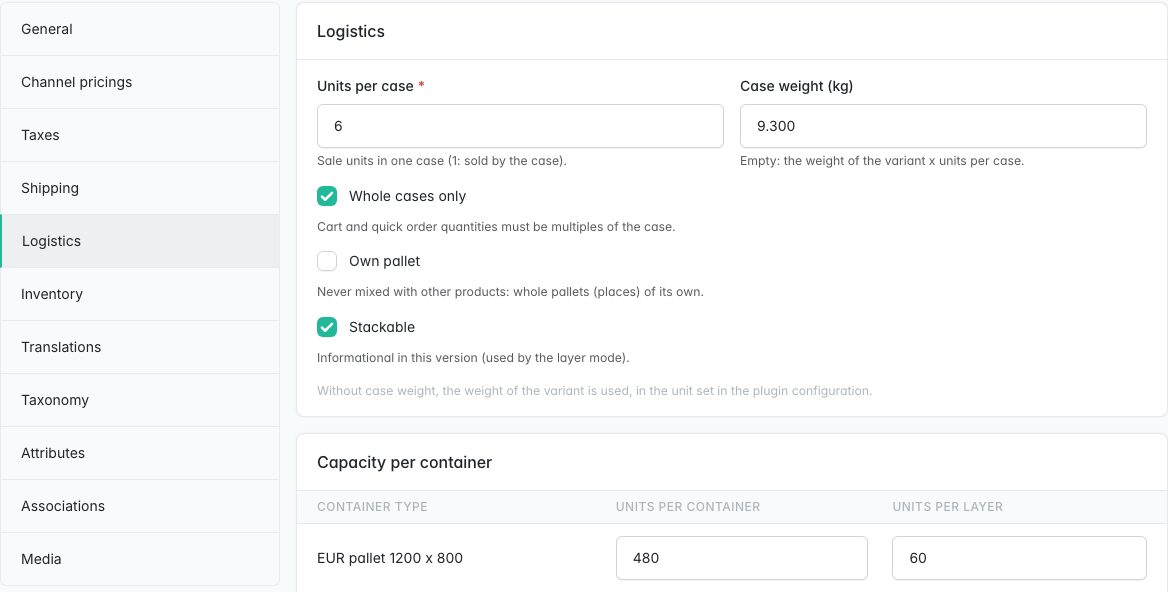
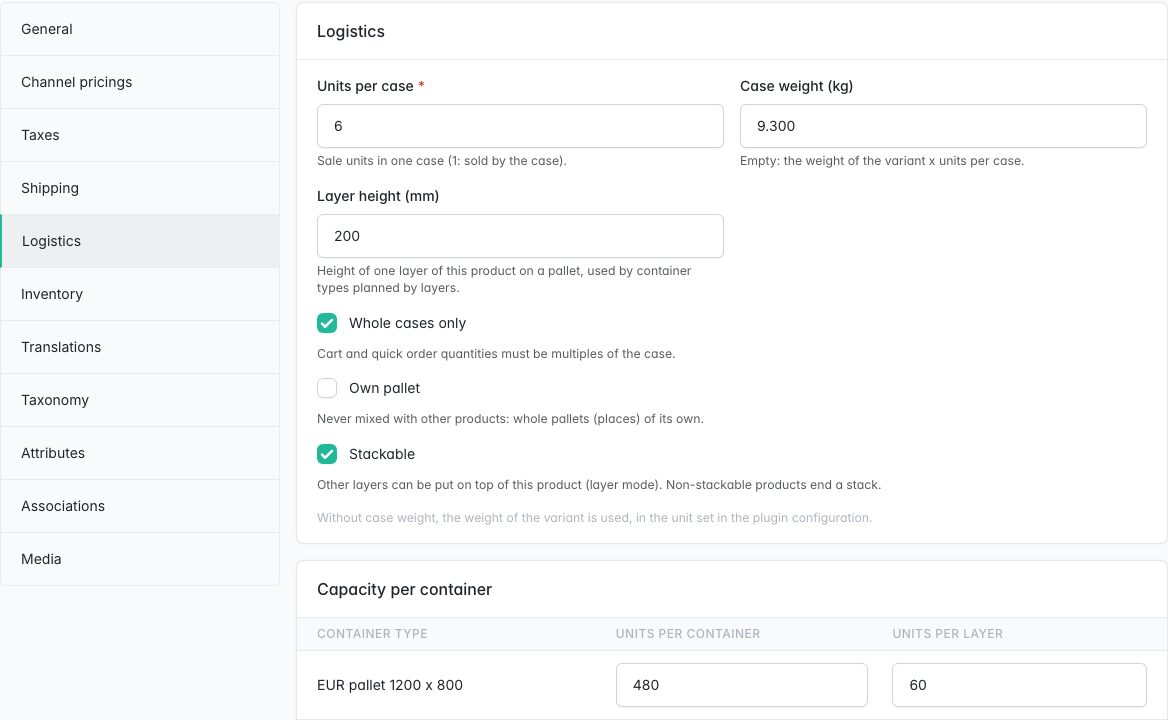
README: screenshots
Claude-Session: https://claude.ai/code/session_01L6YqF34Vf6VRuPDZbmX44T

diff --git a/README.md b/README.md
@@ -257,13 +257,15 @@ The gauge is the Live component `tmonier_container_fill:gauge`: it listens to
 
 ## Screenshots
 
+![Cart gauge in layer mode: side view of the pallet, "add 414" to complete it and room left for more layers](docs/images/shop-cart-layers.jpg)
+
 ![Cart gauge: a semi-trailer filled to 95 % by weight, 23 of 33 places used](docs/images/shop-cart-truck.jpg)
 
-![Mixed pallet filled to 87 %: checkout blocked, with the "complete the pallet" and "round up to the layer" suggestions](docs/images/shop-cart-mixed-pallet.jpg)
+![Indicative preview on the product page: 90 = 1.5 layers of a EUR pallet](docs/images/shop-product-preview.jpg)
 
-![Indicative preview on the product page](docs/images/shop-product-preview.jpg)
+![Logistics tab of a product: case, weight, layer height and capacity per container](docs/images/admin-product-logistics.jpg)
 
-![Logistics tab of a product: case, weight and capacity per container](docs/images/admin-product-logistics.jpg)
+![Container type form: plan by layers, load height and maximum layers](docs/images/admin-container-type-layers.jpg)
 
 ![Fill rule form](docs/images/admin-container-rule-form.jpg)
 
